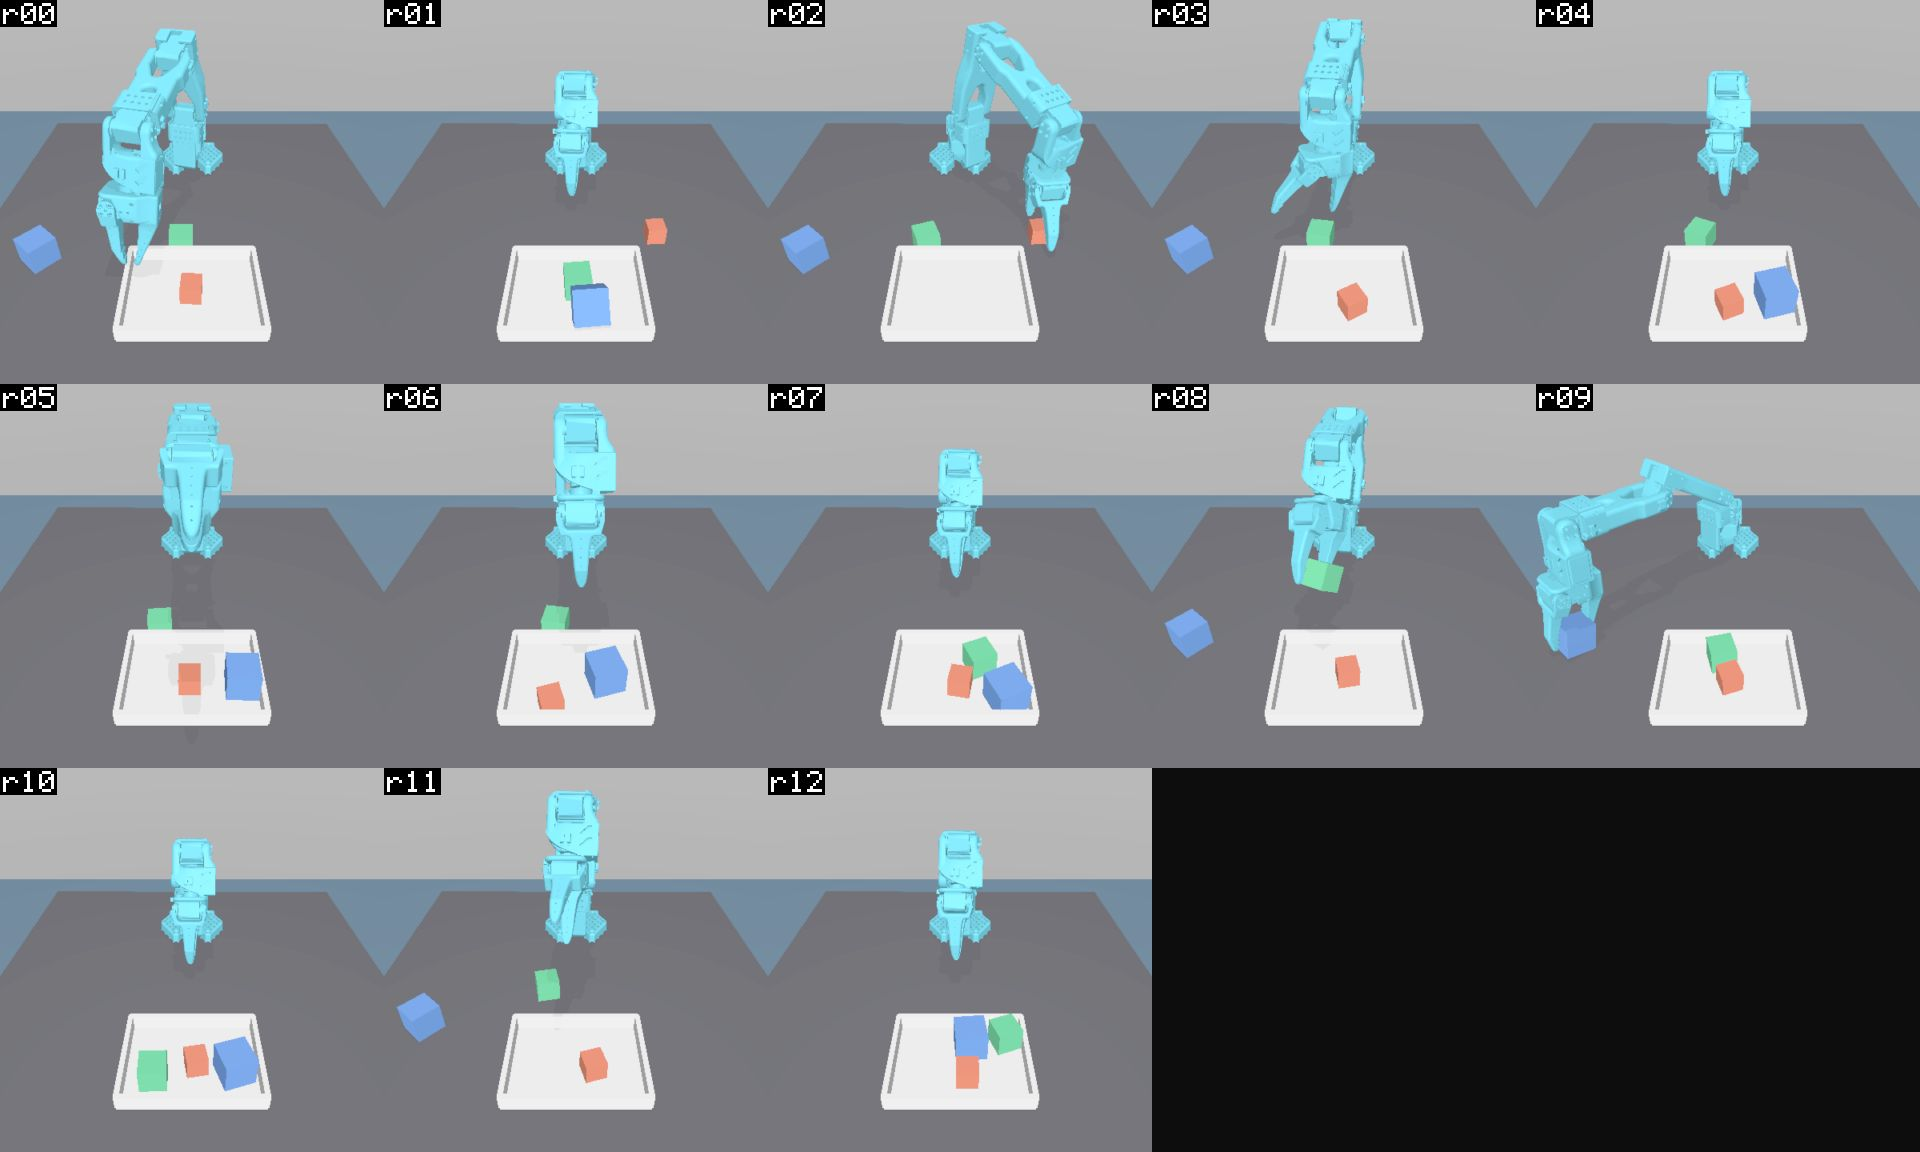
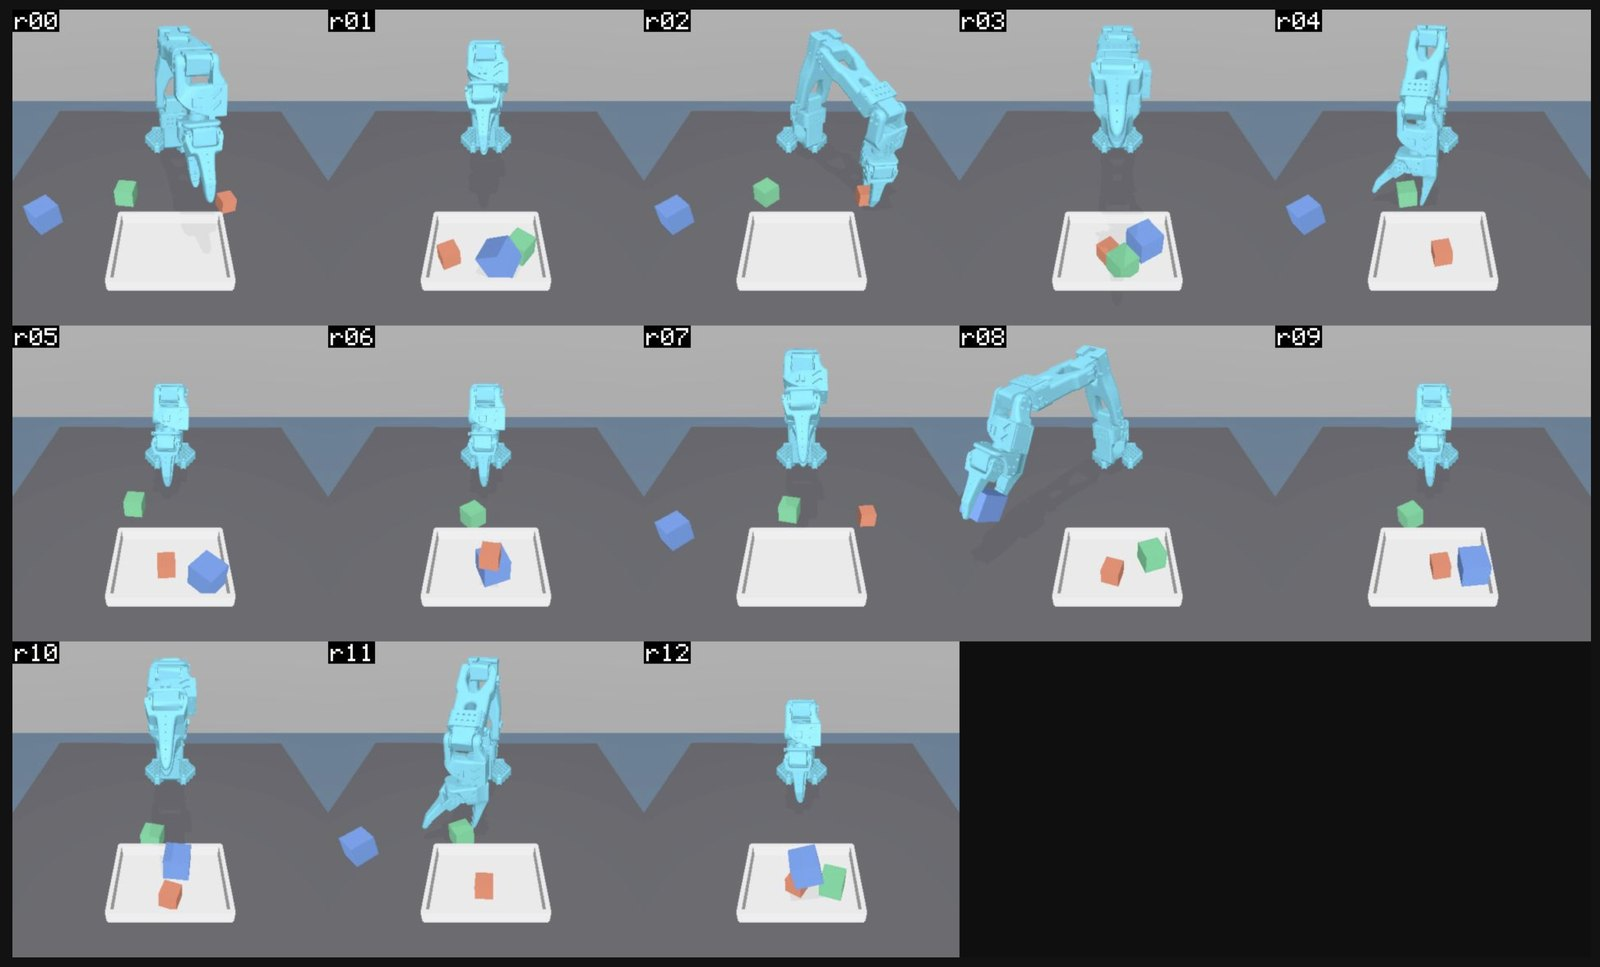
README: bench to fleet - the two stories, a section and a picture per tenant, the box by the numbers
New title. Opens with what the project is and the two stories it tells, then the four MIG slices with
their profiles and one section per tenant; the flywheel is told in robot zero's section. Closes with the
workstation's specifications and what runs on it at once. The repository layout and built-on sections go.
Screenshots of the running system are under docs/images.

diff --git a/README.md b/README.md
@@ -1,61 +1,69 @@
 <!-- This project was developed with assistance from AI tools. -->
-# Physical AI Edge Flywheel
+# Red Hat and HP: Empowering Physical AI from Bench to Fleet
 
-A robot-learning loop with a platform around it. A learned policy for a robot arm improves on curated episodes, has
-to beat the policy it would replace on paired scenes, and ships as a signed image that one merge rolls out to a GPU
-host and a fleet of twelve robots. It runs on one HP ZGX Fury workstation: one NVIDIA GB300 GPU split into four
-isolated tenants, a Red Hat OpenShift hub, and thirteen devices under Red Hat Edge Manager.
+One HP ZGX Fury workstation carries a physical AI project from the engineer's bench to a managed fleet of robots. On
+its single NVIDIA GB300 GPU a coding assistant, a robot's policy, a training job and a ray-tracing renderer run side by
+side. On the same machine a Red Hat OpenShift hub gates, signs and promotes the policy, and Red Hat Edge Manager rolls
+it out to thirteen devices.
 
-The arm, its simulation and the policy architecture are upstream work of the ROS physical AI community and LeRobot.
-This project is what surrounds them: curation, the gated pipeline, signing, promotion, fleet delivery and GPU tenancy.
+It tells two stories:
+
+- **One GPU, four tenants.** MIG splits the GB300 into four isolated slices, and each slice does a different job for a
+  robotics team at the same time: writing code, running a robot, training, and rendering a fleet's cameras.
+- **The flywheel.** A robot's policy improves on its own curated episodes, has to beat the policy it would replace on
+  paired scenes, ships as a signed image, and reaches the GPU host and twelve robots through one merged pull request.
+
+The arm, its simulation and the policy architecture are upstream work of the
+[ROS physical AI community](https://github.com/ros-physical-ai/demos) and
+[LeRobot](https://github.com/huggingface/lerobot). This project is the platform around them: GPU tenancy, curation, the
+gated pipeline, signing, promotion and fleet delivery.
 
 > [!NOTE]
 > This project was developed with assistance from AI tools.
 
-![The fleet wall: thirteen robot arms in a grid, each moving cubes onto a tray](docs/images/fleet-wall.jpg)
+> **Visual to add:** a photo of the workstation on the bench, as the opening picture.
 
-*The fleet wall: thirteen simulated arms, every camera ray-traced on one GPU slice.*
+## One GPU, four tenants
 
-## What it shows
+The workstation has one NVIDIA GB300 with 251 GiB of GPU memory, beside a 72-core Grace CPU and 492 GiB of system
+memory. MIG splits the GPU into one large slice and three small ones. Each slice has its own compute and its own
+memory, and each belongs to one tenant.
 
-- **A learned policy earns its promotion.** A candidate replaces the incumbent only if it fixes more scenes than it
-  breaks on paired, seeded scenes, with a sign test below 0.05.
-- **What is promoted is a signed image.** The model is an OCI image, signed and entered in a transparency log. Every
-  device checks the signature and the log entry before it runs the image.
-- **One merge, thirteen devices, minutes.** A promotion is a pull request. Merging it rolls the model to the GPU host
-  and through twelve robots in batches. Rollback is a `git revert`.
-- **One GPU, four isolated workloads.** MIG splits the GB300 into four slices. A coding assistant, a robot's policy, a
-  training job and a ray-tracing renderer run side by side, isolated from each other.
-- **Everything is delivered from git.** Argo CD delivers the hub, Edge Manager delivers the devices, and nobody logs
-  in to a robot.
+| Slice | MIG profile | Tenant | What runs on it |
+|---|---|---|---|
+| `0:0` | `3g.126gb` - three compute units, 126 GB | [Coding assistant](#coding-assistant) | a Qwen3 coder model served by vLLM |
+| `0:1` | `1g.31gb` - one compute unit, 31 GB | [Robot zero](#robot-zero-and-the-flywheel) | the signed policy that drives the first robot, delivered by Edge Manager |
+| `0:2` | `1g.31gb` - one compute unit, 31 GB | [Training](#training-tenant) | fine-tunes of the robot's policy, round after round |
+| `0:3` | `1g.31gb` - one compute unit, 31 GB | [Rendering](#rendering-tenant-and-the-fleet) | ray tracing of every robot's cameras for the fleet |
 
-## The system at a glance
+![Compute busy and memory used for all four slices, one line per tenant](docs/images/gpu-slices.png)
 
-```mermaid
-flowchart LR
-    GIT["Git"]:::ext -->|GitOps| HUB["Hub (OpenShift)"]:::hub
-    BOTS["12 robots"]:::dev
-    subgraph HOST["GPU host"]
-        direction LR
-        T0["Coding assistant"]:::gpu ~~~ T2["Training tenant"]:::gpu
-        T1["Robot zero's policy"]:::gpu ~~~ T3["Rendering tenant"]:::gpu
-    end
-    HUB -->|Edge Manager| BOTS
-    HUB -->|signed images| REG["Registry"]:::ext
-    HUB -->|Edge Manager| HOST
-    REG --> BOTS
-    REG --> HOST
-    classDef gpu fill:#9fd99a,stroke:#2f7a2b,color:#111
-    classDef hub fill:#f2a9a2,stroke:#a3241b,color:#111
-    classDef dev fill:#9cc4f0,stroke:#1f5799,color:#111
-    classDef ext fill:#d0d0d0,stroke:#5c5c5c,color:#111
-```
+*All four slices on one dashboard. Training and rendering each keep their slice about 80% busy while the assistant
+holds 113 GiB of model and cache in its own.*
 
-The hub runs GitOps, the pipeline and Edge Manager. Edge Manager manages thirteen devices: the GPU host, which is also
-robot zero, and twelve RHEL image mode robots. The hub and the robots are virtual machines on the same workstation
-([architecture](docs/ARCHITECTURE.md)).
+More: [GPU tenants](docs/architecture/gpu-tenants.md).
 
-## How it works
+### Coding assistant
+
+Slice `0:0`, `3g.126gb`. vLLM serves Qwen3-Coder-Next with a 131k-token context and tool calling behind an
+OpenAI-compatible API. A Red Hat OpenShift Dev Spaces workspace on the hub opens this repository with a terminal coding
+agent pointed at the slice, so the code and the model that reads it stay on the workstation. A single stream decodes
+about 245 tokens a second, with the first token after 0.13 s.
+
+![The terminal coding agent in the Dev Spaces workspace, set to the Qwen3 coder model on the Fury's slice](docs/images/coding-assistant.png)
+
+> **Visual to add:** the agent in the middle of a task in the Dev Spaces workspace - an edit and a test run on screen.
+
+### Robot zero and the flywheel
+
+Slice `0:1`, `1g.31gb`. The workstation is also the fleet's first robot. Edge Manager delivers the signed ACT policy to
+it as a Fleet application, and a device label places it on this slice. The policy drives an SO-ARM101 arm in closed
+loop - camera pictures in, joint commands out - putting three cubes on a tray, episode after episode.
+
+![The flywheel page: robot zero's two cameras, the curator's verdict on each episode, and progress toward 160](docs/images/flywheel-page.png)
+
+Robot zero is where the flywheel turns. Every episode it finishes goes to a curator, and the policy it runs is the one
+the loop last promoted.
 
 ```mermaid
 flowchart LR
@@ -64,25 +72,77 @@ flowchart LR
     R --> C
 ```
 
-1. **Collect and curate.** A robot runs the current policy. A curator scores every episode - all three cubes on the
-   tray, smooth motion - and keeps the ones that pass.
-2. **Train.** At 160 new curated successes a trigger starts the pipeline, which fine-tunes the current policy on them.
+1. **Collect and curate.** The curator scores every episode - all three cubes on the tray, smooth motion - and keeps
+   the ones that pass. The page counts them toward 160.
+2. **Train.** At 160 curated successes a trigger starts the pipeline on Red Hat OpenShift AI, which fine-tunes the
+   current policy on them.
 3. **Evaluate and gate.** Candidate and incumbent run the same seeded scenes, paired scene by scene. The gate passes
-   only a candidate that fixes more than it breaks.
+   only a candidate that fixes more scenes than it breaks, with a sign test below 0.05.
 4. **Sign and register.** The model becomes an OCI image, signed with cosign, entered in a transparency log and
-   recorded in the Model Registry.
-5. **Promote and roll out.** The pipeline opens a pull request that pins the image's digest in both Fleets. A person
-   merges it, and Edge Manager does the rest.
+   recorded in the Model Registry. Every device checks the signature and the log entry before it runs the image.
+5. **Promote and roll out.** The pipeline opens a pull request that pins the image's digest for the GPU host and for
+   the robots. A person merges it, and Edge Manager does the rest. Rollback is a `git revert`.
 
-## By the numbers
+The promoted policy took task success from **82% to 92%** on 360 paired scenes: 57 scenes fixed, 19 broken. From the
+merge, the GPU host serves the new model in about a minute and a half, and all twelve robots run it in about three and
+a half.
 
-- **82% to 92%** task success on 360 paired scenes: 57 scenes fixed, 19 broken, and the gate promoted the policy.
-- **About a minute and a half** from merge to the GPU host serving the promoted model; **about three and a half
-  minutes** until all twelve robots run it.
-- **246.6 against 245.7 tokens a second**: the coding assistant's throughput with and without a training job on the
-  neighbouring slice.
-- **Thirteen robots' cameras at 15 frames a second**, two cameras each, ray-traced on one GPU slice.
-- **Twelve robots enrolled and healthy in about 25 minutes**, each a clone of one golden image with its own identity.
+![The evaluation page: the gate's paired result, and both policies' success rates side by side](docs/images/evaluation-comparison.png)
+
+More: [flywheel](docs/architecture/flywheel.md), [supply chain](docs/architecture/supply-chain.md),
+[promotion](docs/architecture/promotion.md), [data flow](docs/DATA-FLOW.md).
+
+### Training tenant
+
+Slice `0:2`, `1g.31gb`. The GPU's standing training load: fine-tunes of the ACT policy with `lerobot-train`, in rounds
+of 9000 steps at about ten steps a second, a round every quarter of an hour. It has run more than seventy rounds back
+to back. A Perses dashboard on the hub shows loss, pace and rounds, and `tools/hub/training-watch.sh` follows the same
+run from a terminal.
+
+![The training tenant: loss, steps per second and rounds on the dashboard, and the same run's output in a terminal](docs/images/training-tenant.png)
+
+The neighbours do not feel it. The coding assistant decodes 246.6 tokens a second while a round trains on the next
+slice, and 245.7 with that slice idle.
+
+### Rendering tenant and the fleet
+
+Slice `0:3`, `1g.31gb`. A MIG slice is compute only, so no simulator draws its own cameras. Every robot's world is
+physics only, and this tenant ray-traces the pictures with CUDA (MuJoCo-Warp): two cameras for each of thirteen robots,
+480x480 at 15 frames a second, in one batch per tick.
+
+![The fleet wall: thirteen robot arms in a grid, each moving cubes onto a tray](docs/images/fleet-wall.jpg)
+
+*The fleet wall: robot zero and the twelve robots behind it, every camera ray-traced on one slice.*
+
+The twelve robots are RHEL image mode virtual machines, each a clone of one golden image with its own identity. They
+enrol with Red Hat Edge Manager, join a Fleet, and take every new model in batches: a canary, then a quarter of the
+Fleet, then half, then the rest. Each robot pulls its images itself and verifies their signatures. Nobody logs in to a
+robot. Twelve robots were enrolled and healthy about 25 minutes after the first one booted.
+
+More: [fleet](docs/architecture/fleet.md).
+
+## The box, by the numbers
+
+| HP ZGX Fury | |
+|---|---|
+| CPU | NVIDIA Grace, 72 Arm cores |
+| GPU | one NVIDIA GB300, 251 GiB, split by MIG into `3g.126gb` + `1g.31gb` + `1g.31gb` + `1g.31gb` |
+| Memory | 492 GiB |
+| Storage | 12 TB of NVMe on four drives |
+| Operating system | Red Hat Enterprise Linux 10.2, aarch64 |
+
+Everything above runs on it at once:
+
+- **Four GPU tenants** on one GPU, isolated from each other.
+- **A Red Hat OpenShift hub** in a virtual machine - 32 vCPUs, 128 GiB - with GitOps, the pipeline, the Model Registry,
+  Edge Manager and Dev Spaces.
+- **Twelve robots** as virtual machines of 2 vCPUs and 3 GiB each, and **thirteen devices** under Edge Manager.
+- **About 245 tokens a second** from the coding assistant, **ten training steps a second**, and **twenty-six cameras
+  ray-traced at 15 frames a second**, side by side.
+- **About three and a half minutes** from a merged pull request to thirteen devices running the new model.
+- **About 285 W** at the GPU with all four tenants busy, at 38 °C.
+
+![GPU power draw and temperature with all four tenants busy](docs/images/gpu-power-temperature.png)
 
 ## Explore
 
@@ -94,23 +154,10 @@ flowchart LR
 | [`docs/SETUP.md`](docs/SETUP.md) | bring-up, from a fresh RHEL install to the running system |
 | [`docs/DATA-FLOW.md`](docs/DATA-FLOW.md) | an episode's path to a promotion, stage by stage |
 
-## Repository layout
-
-| Path | Contents |
-|---|---|
-| `argocd/` | the Argo CD Applications that bootstrap the hub |
-| `gitops/` | what the hub runs, one directory per application; the two Edge Manager Fleets in `gitops/rhem/` |
-| `pipeline/` | the OpenShift AI pipeline: gate, package, sign, register, pull request |
-| `src/` | the services: episode loop, evaluation pages, fleet worlds, renderer, robot zero, tenant metrics, workspace |
-| `tools/hub/` | laptop-side scripts: image builds, fleet approval and status, promotion reset |
-| `tools/host/fury/` | the scripts and units that prepared and operate the GPU host, written for that one machine |
-| `tests/` | pytest suites, by component |
-
 ## Platform
 
 | Component | Role | Version |
 |---|---|---|
-| HP ZGX Fury: NVIDIA GB300, 72-core Grace, aarch64 | the workstation | - |
 | Red Hat Enterprise Linux, RHEL image mode | the GPU host; the robots' operating system | 10.2 |
 | Red Hat OpenShift, single node | the hub | 4.22 |
 | Red Hat OpenShift GitOps, Red Hat OpenShift Pipelines | delivery from git; image builds and signing | - |
@@ -118,16 +165,5 @@ flowchart LR
 | Red Hat Edge Manager | Fleets, enrolment, staged rollout | 1.3.0 |
 | Red Hat OpenShift Dev Spaces | the coding workspace | 3.30 |
 | cosign, Rekor transparency log | signatures, verified on every device | cosign 2.6.5 |
-
-## Built on
-
-- [`ros-physical-ai/demos`](https://github.com/ros-physical-ai/demos) - the SO-ARM101 arm, its Gazebo simulation, the
-  LeRobot ACT policy and the Rosetta ROS 2 to LeRobot bridge
-- [LeRobot](https://github.com/huggingface/lerobot) - policy training and the dataset format
-- ROS 2 with the `rmw_zenoh` middleware
-- [MuJoCo-Warp](https://github.com/google-deepmind/mujoco_warp) - batched ray tracing of the fleet's cameras
-- [vLLM](https://github.com/vllm-project/vllm) - serving the coding model
-- [Flight Control](https://github.com/flightctl/flightctl) - the upstream of Red Hat Edge Manager, and the device agent
-- [sigstore](https://github.com/sigstore) - cosign and Rekor
 
 The system was developed first on an x86 development stand-in; the same manifests run on the Fury.
